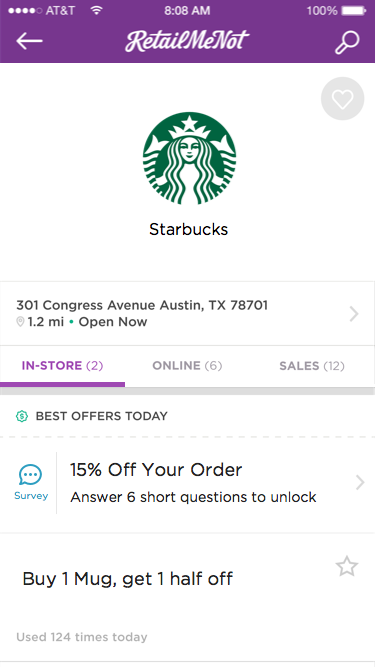
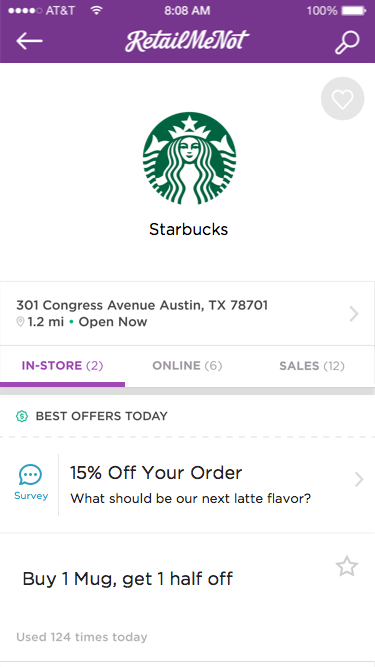
Added progress numbers

Changed region(s): [[0.176, 0.6897, 0.8507, 0.7796], [0.9387, 0.7196, 0.968, 0.7496]]

diff --git a/survey.html b/survey.html
@@ -31,6 +31,7 @@
       <div class="logo"></div>
       <div class="company-name">Starbucks</div>
       <div class="question question-5">What is your least favorite thing about this Starbucks? </div>
+      <div class="progress-number">6 of 6</div>
     </li>
 
     <li class="card card-5 back-5 dynamic-color">
@@ -38,6 +39,7 @@
       <div class="logo"></div>
       <div class="company-name">Starbucks</div>
       <div class="question question-5">What is your favorite thing about your Starbucks?</div>
+      <div class="progress-number">5 of 6</div>
     </li>
 
     <li class="card card-4 back-4 dynamic-color">
@@ -45,6 +47,7 @@
       <div class="logo"></div>
       <div class="company-name">Starbucks</div>
       <div class="question question-4">Do you live in Austin, Texas?</div>
+      <div class="progress-number">4 of 6</div>
     </li>
 
     <li class="card card-3 back-3 dynamic-color">
@@ -52,13 +55,15 @@
       <div class="logo"></div>
       <div class="company-name">Starbucks</div>
       <div class="question question-3">Are you a student?</div>
+      <div class="progress-number">3 of 6</div>
     </li>
 
     <li class="card card-2 back-2 dynamic-color">
       <div class="card-header"></div>
       <div class="logo"></div>
       <div class="company-name">Starbucks</div>
-      <div class="question question-2">Why do you come to Starbucks?</div>  
+      <div class="question question-2">Why do you come to Starbucks?</div> 
+      <div class="progress-number">2 of 6</div> 
     </li>
 
     <li class="card card-1 front dynamic-color">
@@ -66,6 +71,7 @@
       <div class="logo"></div>
       <div class="company-name">Starbucks</div>
       <div class="question question-1">What should be our next latte flavor?</div>
+      <div class="progress-number">1 of 6</div>
     </li>
   </ul>
   

diff --git a/style.css b/style.css
@@ -248,6 +248,14 @@ a{
   border-radius: 40px;
 }
 
+.progress-number{
+  font-family: "Gotham-Book";
+  color: #c5c5c5;
+  font-size: 10px;
+  margin-left: 43%;
+  margin-top: 30px;
+}
+
 .answer-container {
   width: 100%;
   height: 30%;
